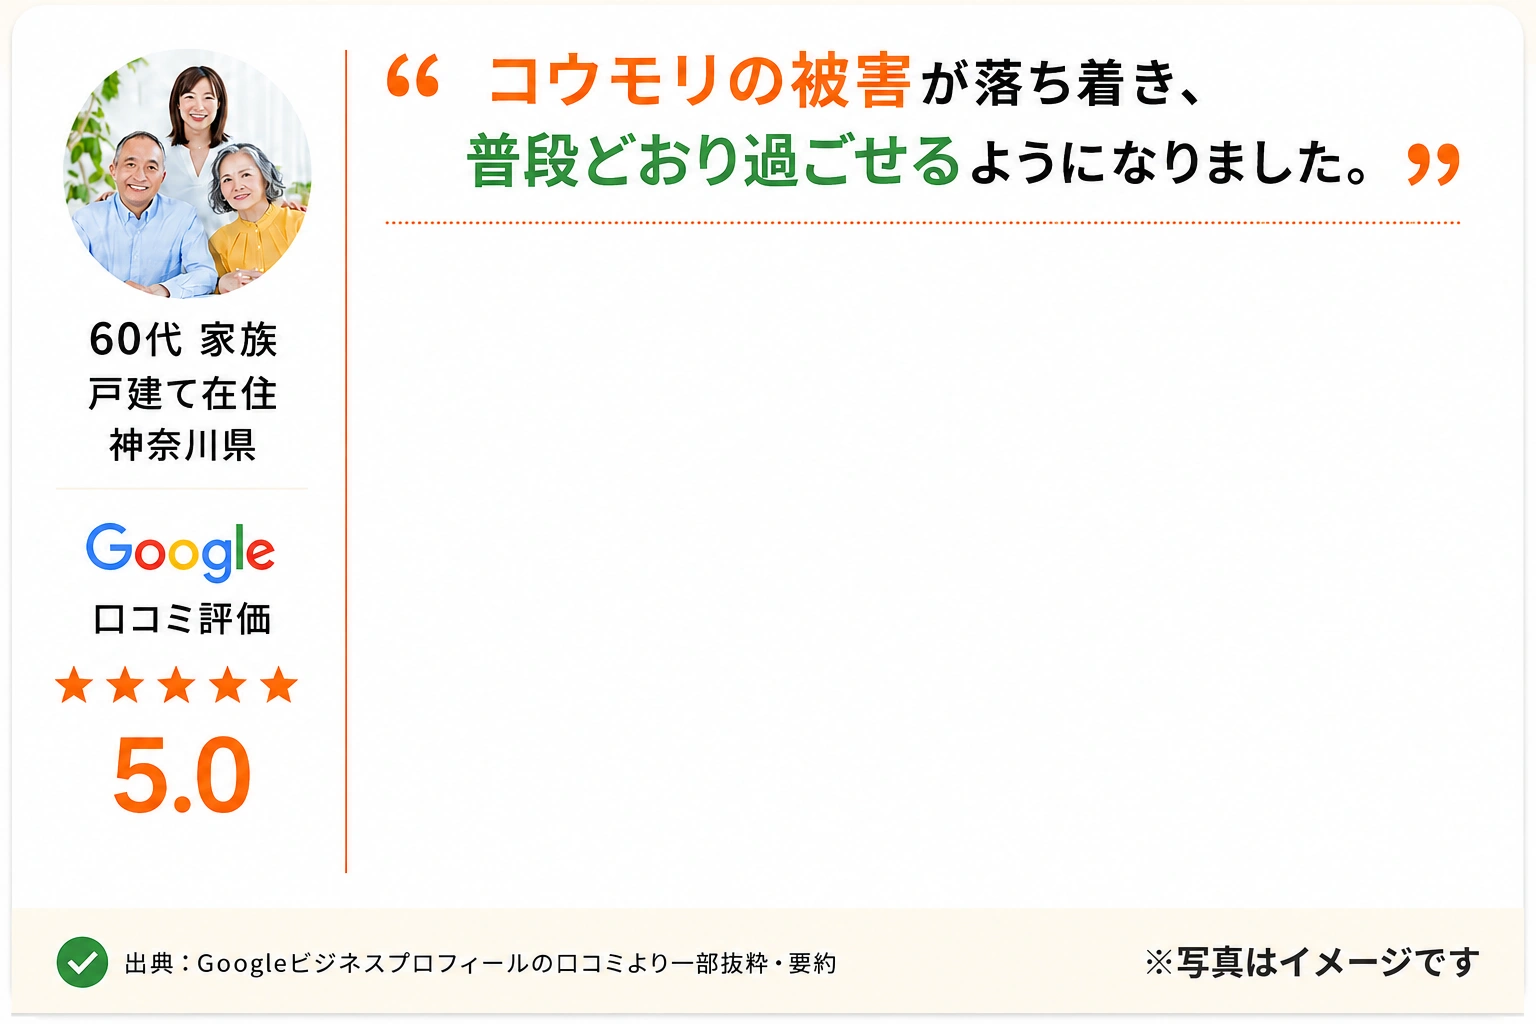
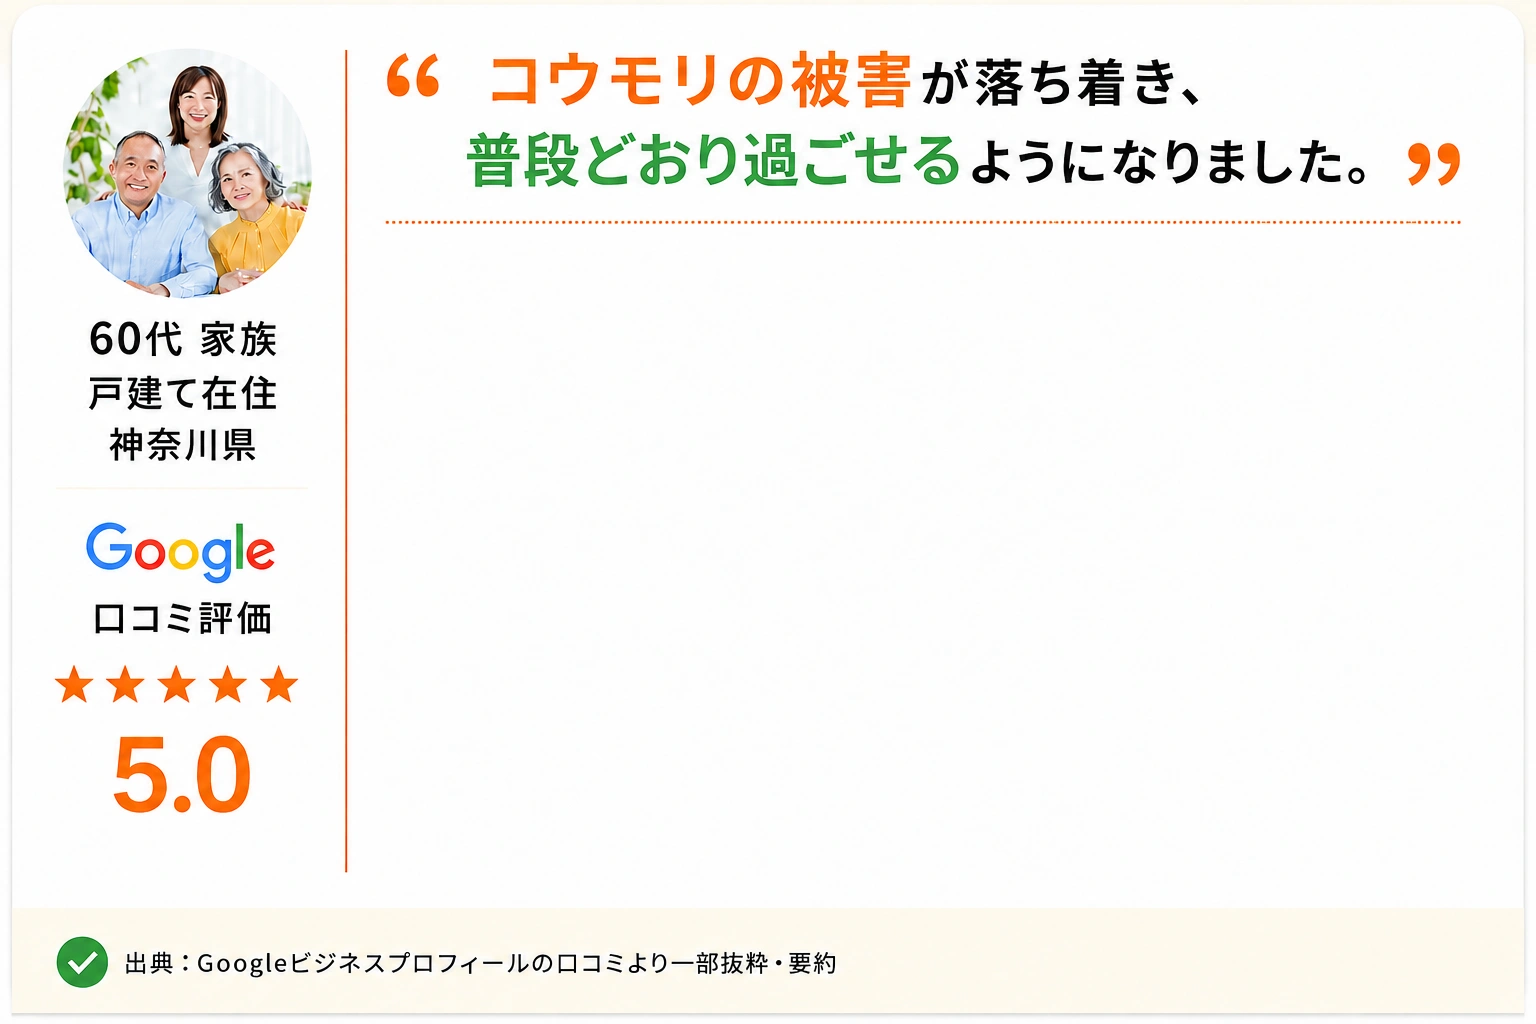
Refresh G hero copy and remove remaining photo image notes

diff --git a/g/index.html b/g/index.html
@@ -159,7 +159,7 @@ img:is([sizes=auto i],[sizes^="auto," i]){contain-intrinsic-size:3000px 1500px}
 <div class="hg-fv__stage">
 <figure class="hg-fv__photo" aria-hidden="true"><img fetchpriority="high" src="assets/refinement-20261129/hero.webp" alt="害獣対策スタッフのイメージ" class="hg-fv__photo-img" width="1536" height="1024"></figure>
 <div class="hg-fv__copy">
-<h1 class="hg-fv__heading"><span class="hg-fv__heading-line1">屋根裏・床下<span class="hg-fv__heading-no">の</span><br class="u_sp">ネズミなど</span><span class="hg-fv__heading-line2"><em>害獣駆除</em><span class="hg-fv__heading-taiou">の専門業者</span></span></h1>
+<h1 class="hg-fv__heading"><span class="hg-fv__heading-line1">住まいの害獣<span class="hg-fv__heading-no">に</span><br class="u_sp">お困りなら</span><span class="hg-fv__heading-line2"><em>害獣対策</em><span class="hg-fv__heading-taiou">の専門家へ</span></span></h1>
 <p class="hg-fv__lead">駆除後の安心も見据えて。<br><span class="hg-fv__lead-line"><mark class="hg-fv__lead-mark hg-fv__lead-mark--primary">侵入口封鎖・再発予防</mark><span class="hg-fv__lead-connector">まで</span><mark class="hg-fv__lead-mark hg-fv__lead-mark--end">一貫対応。</mark></span></p>
 <ul class="hg-fv__animals">
 <li><span class="hg-fv__animals-circle"><img src="../_mock/v3-assets/rat.jpg" alt="ネズミ" loading="eager" data-src="../_mock/v3-assets/rat.jpg" decoding="async" class="lazyloaded" data-eio-rwidth="258" data-eio-rheight="185"><noscript><img src="../_mock/v3-assets/rat.jpg" alt="ネズミ" loading="eager" data-eio="l"></noscript></span><span class="hg-fv__animals-name">ネズミ</span></li>
@@ -174,20 +174,20 @@ img:is([sizes=auto i],[sizes^="auto," i]){contain-intrinsic-size:3000px 1500px}
 <li class="hg-fv__point">
 <span class="hg-fv__point-num">1</span>
 <span class="hg-fv__point-icon" aria-hidden="true"><img data-srcset="assets/houseguard24.saki-x.jp/wp-content/uploads/hg24-srcset/point-icon-01-120.webp 120w, assets/houseguard24.saki-x.jp/wp-content/themes/house-guard/assets/img/renewal/point-icon-01.png.webp 240w" sizes="(max-width:767px) 56px, 50px" src="assets/houseguard24.saki-x.jp/wp-content/themes/house-guard/assets/img/renewal/point-icon-01.png.webp" alt="" width="46" height="46" data-src="assets/houseguard24.saki-x.jp/wp-content/themes/house-guard/assets/img/renewal/point-icon-01.png.webp" decoding="async" class="lazyloaded" data-eio-rwidth="240" data-eio-rheight="233" srcset="assets/houseguard24.saki-x.jp/wp-content/uploads/hg24-srcset/point-icon-01-120.webp 120w, assets/houseguard24.saki-x.jp/wp-content/themes/house-guard/assets/img/renewal/point-icon-01.png.webp 240w"><noscript><img srcset="assets/houseguard24.saki-x.jp/wp-content/uploads/hg24-srcset/point-icon-01-120.webp 120w, assets/houseguard24.saki-x.jp/wp-content/themes/house-guard/assets/img/renewal/point-icon-01.png.webp 240w" sizes="(max-width:767px) 56px, 50px" src="assets/houseguard24.saki-x.jp/wp-content/themes/house-guard/assets/img/renewal/point-icon-01.png.webp" alt="" width="46" height="46" data-eio="l"></noscript></span>
-<p class="hg-fv__point-title"><em class="_lead">明瞭会計</em>で安心</p>
-<p class="hg-fv__point-txt">住まいの状況を確認し、<br>被害に合う対策をご案内します。</p>
+<p class="hg-fv__point-title"><em class="_lead">費用を先に</em>ご案内</p>
+<p class="hg-fv__point-txt">現地調査の結果をもとに、<br>必要な対策と料金をわかりやすくお伝えします。</p>
 </li>
 <li class="hg-fv__point">
 <span class="hg-fv__point-num">2</span>
 <span class="hg-fv__point-icon" aria-hidden="true"><img data-srcset="assets/houseguard24.saki-x.jp/wp-content/uploads/hg24-srcset/point-icon-02-120.webp 120w, assets/houseguard24.saki-x.jp/wp-content/themes/house-guard/assets/img/renewal/point-icon-02.png.webp 240w" sizes="(max-width:767px) 56px, 50px" src="assets/houseguard24.saki-x.jp/wp-content/themes/house-guard/assets/img/renewal/point-icon-02.png.webp" alt="" width="46" height="46" data-src="assets/houseguard24.saki-x.jp/wp-content/themes/house-guard/assets/img/renewal/point-icon-02.png.webp" decoding="async" class="lazyloaded" data-eio-rwidth="240" data-eio-rheight="254" srcset="assets/houseguard24.saki-x.jp/wp-content/uploads/hg24-srcset/point-icon-02-120.webp 120w, assets/houseguard24.saki-x.jp/wp-content/themes/house-guard/assets/img/renewal/point-icon-02.png.webp 240w"><noscript><img srcset="assets/houseguard24.saki-x.jp/wp-content/uploads/hg24-srcset/point-icon-02-120.webp 120w, assets/houseguard24.saki-x.jp/wp-content/themes/house-guard/assets/img/renewal/point-icon-02.png.webp 240w" sizes="(max-width:767px) 56px, 50px" src="assets/houseguard24.saki-x.jp/wp-content/themes/house-guard/assets/img/renewal/point-icon-02.png.webp" alt="" width="46" height="46" data-eio="l"></noscript></span>
-<p class="hg-fv__point-title">自社施工で<em>安心</em></p>
-<p class="hg-fv__point-txt">調査も工事も自社の担当者が<br>責任を持って取り組みます。</p>
+<p class="hg-fv__point-title"><em>自社スタッフ</em>が対応</p>
+<p class="hg-fv__point-txt">状況の確認から工事まで、<br>自社の担当者が責任を持って進めます。</p>
 </li>
 <li class="hg-fv__point">
 <span class="hg-fv__point-num">3</span>
 <span class="hg-fv__point-icon" aria-hidden="true"><img data-srcset="assets/houseguard24.saki-x.jp/wp-content/uploads/hg24-srcset/point-icon-03-120.webp 120w, assets/houseguard24.saki-x.jp/wp-content/themes/house-guard/assets/img/renewal/point-icon-03.png.webp 240w" sizes="(max-width:767px) 56px, 50px" src="assets/houseguard24.saki-x.jp/wp-content/themes/house-guard/assets/img/renewal/point-icon-03.png.webp" alt="" width="46" height="46" data-src="assets/houseguard24.saki-x.jp/wp-content/themes/house-guard/assets/img/renewal/point-icon-03.png.webp" decoding="async" class="lazyloaded" data-eio-rwidth="240" data-eio-rheight="193" srcset="assets/houseguard24.saki-x.jp/wp-content/uploads/hg24-srcset/point-icon-03-120.webp 120w, assets/houseguard24.saki-x.jp/wp-content/themes/house-guard/assets/img/renewal/point-icon-03.png.webp 240w"><noscript><img srcset="assets/houseguard24.saki-x.jp/wp-content/uploads/hg24-srcset/point-icon-03-120.webp 120w, assets/houseguard24.saki-x.jp/wp-content/themes/house-guard/assets/img/renewal/point-icon-03.png.webp 240w" sizes="(max-width:767px) 56px, 50px" src="assets/houseguard24.saki-x.jp/wp-content/themes/house-guard/assets/img/renewal/point-icon-03.png.webp" alt="" width="46" height="46" data-eio="l"></noscript></span>
-<p class="hg-fv__point-title">対策工事後は<em class="_mk">10年保証</em></p>
-<p class="hg-fv__point-txt">工事後も安心が続くよう、<br>再侵入に備える保証をお付けします。<small>※適用条件があります。</small></p>
+<p class="hg-fv__point-title">施工箇所に<em class="_mk">10年保証</em></p>
+<p class="hg-fv__point-txt">施工後の再侵入にも備え、<br>保証対象の箇所を長くサポートします。<small>※適用条件があります。</small></p>
 </li>
 </ul>
 
@@ -1171,13 +1171,13 @@ aria-label="1 / 7">
 <figure class="hg-voice__card">
 <picture class="hg-voice__pic">
 <source media="(max-width:767px)"
-width="1536" height="1850" data-srcset="assets/photo-refresh/voice-03_sp.png 820w, assets/photo-refresh/voice-03_sp.png 1536w" sizes="(max-width:767px) 95vw, 100vw" srcset="assets/photo-refresh/voice-03_sp.png 820w, assets/photo-refresh/voice-03_sp.png 1536w">
-<img data-srcset="assets/photo-refresh/voice-03.png 808w, assets/photo-refresh/voice-03.png 1536w" sizes="808px" class="hg-voice__img lazyloaded"
-src="assets/photo-refresh/voice-03.png"
+width="1536" height="1850" data-srcset="assets/photo-refresh/voice-03_sp.png?v=20261129-note-cleanup 820w, assets/photo-refresh/voice-03_sp.png?v=20261129-note-cleanup 1536w" sizes="(max-width:767px) 95vw, 100vw" srcset="assets/photo-refresh/voice-03_sp.png?v=20261129-note-cleanup 820w, assets/photo-refresh/voice-03_sp.png?v=20261129-note-cleanup 1536w">
+<img data-srcset="assets/photo-refresh/voice-03.png?v=20261129-note-cleanup 808w, assets/photo-refresh/voice-03.png?v=20261129-note-cleanup 1536w" sizes="808px" class="hg-voice__img lazyloaded"
+src="assets/photo-refresh/voice-03.png?v=20261129-note-cleanup"
 width="1536" height="1024" loading="lazy" decoding="async"
-alt="神奈川県の30代女性・戸建て在住のお客様の声。ネズミの侵入口調査と工事説明を評価し「ぜひ相談してください」とGoogle口コミで5.0評価" data-src="assets/photo-refresh/voice-03.png" data-eio-rwidth="1536" data-eio-rheight="1024" srcset="assets/photo-refresh/voice-03.png 808w, assets/photo-refresh/voice-03.png 1536w">
-</picture><noscript><img srcset="assets/photo-refresh/voice-03.png 808w, assets/photo-refresh/voice-03.png 1536w" sizes="808px" class="hg-voice__img"
-src="assets/photo-refresh/voice-03.png"
+alt="神奈川県の30代女性・戸建て在住のお客様の声。ネズミの侵入口調査と工事説明を評価し「ぜひ相談してください」とGoogle口コミで5.0評価" data-src="assets/photo-refresh/voice-03.png?v=20261129-note-cleanup" data-eio-rwidth="1536" data-eio-rheight="1024" srcset="assets/photo-refresh/voice-03.png?v=20261129-note-cleanup 808w, assets/photo-refresh/voice-03.png?v=20261129-note-cleanup 1536w">
+</picture><noscript><img srcset="assets/photo-refresh/voice-03.png?v=20261129-note-cleanup 808w, assets/photo-refresh/voice-03.png?v=20261129-note-cleanup 1536w" sizes="808px" class="hg-voice__img"
+src="assets/photo-refresh/voice-03.png?v=20261129-note-cleanup"
 width="1536" height="1024" loading="lazy" decoding="async"
 alt="神奈川県の30代女性・戸建て在住のお客様の声。ネズミの侵入口調査と工事説明を評価し「ぜひ相談してください」とGoogle口コミで5.0評価" data-eio="l"></noscript>
 <figcaption class="hg-voice__body" style="--l:31.11%;--r:8.53%;--t:25.68%">
@@ -1189,13 +1189,13 @@ aria-label="2 / 7">
 <figure class="hg-voice__card">
 <picture class="hg-voice__pic">
 <source media="(max-width:767px)"
-width="1536" height="1850" data-srcset="assets/houseguard24.saki-x.jp/wp-content/themes/house-guard/assets/img/voice/voice-04-kanagawa-family60_sp.webp" srcset="assets/houseguard24.saki-x.jp/wp-content/themes/house-guard/assets/img/voice/voice-04-kanagawa-family60_sp.webp">
+width="1536" height="1850" data-srcset="assets/houseguard24.saki-x.jp/wp-content/themes/house-guard/assets/img/voice/voice-04-kanagawa-family60_sp.webp?v=20261129-note-cleanup" srcset="assets/houseguard24.saki-x.jp/wp-content/themes/house-guard/assets/img/voice/voice-04-kanagawa-family60_sp.webp?v=20261129-note-cleanup">
 <img class="hg-voice__img lazyloaded"
-src="assets/houseguard24.saki-x.jp/wp-content/themes/house-guard/assets/img/voice/voice-04-kanagawa-family60.webp"
+src="assets/houseguard24.saki-x.jp/wp-content/themes/house-guard/assets/img/voice/voice-04-kanagawa-family60.webp?v=20261129-note-cleanup"
 width="1536" height="1024" loading="lazy" decoding="async"
-alt="神奈川県の60代ご家族・戸建て在住のお客様の声。コウモリ被害の駆除後「安心して暮らすことができています」とGoogle口コミで5.0評価" data-src="assets/houseguard24.saki-x.jp/wp-content/themes/house-guard/assets/img/voice/voice-04-kanagawa-family60.webp" data-eio-rwidth="1536" data-eio-rheight="1024">
+alt="神奈川県の60代ご家族・戸建て在住のお客様の声。コウモリ被害の駆除後「安心して暮らすことができています」とGoogle口コミで5.0評価" data-src="assets/houseguard24.saki-x.jp/wp-content/themes/house-guard/assets/img/voice/voice-04-kanagawa-family60.webp?v=20261129-note-cleanup" data-eio-rwidth="1536" data-eio-rheight="1024">
 </picture><noscript><img class="hg-voice__img"
-src="assets/houseguard24.saki-x.jp/wp-content/themes/house-guard/assets/img/voice/voice-04-kanagawa-family60.webp"
+src="assets/houseguard24.saki-x.jp/wp-content/themes/house-guard/assets/img/voice/voice-04-kanagawa-family60.webp?v=20261129-note-cleanup"
 width="1536" height="1024" loading="lazy" decoding="async"
 alt="神奈川県の60代ご家族・戸建て在住のお客様の声。コウモリ被害の駆除後「安心して暮らすことができています」とGoogle口コミで5.0評価" data-eio="l"></noscript>
 <figcaption class="hg-voice__body" style="--l:24.66%;--r:5.08%;--t:23.83%">
@@ -1207,13 +1207,13 @@ aria-label="3 / 7">
 <figure class="hg-voice__card">
 <picture class="hg-voice__pic">
 <source media="(max-width:767px)"
-width="1536" height="1850" data-srcset="assets/mamoriya/voice-05-tokyo-m40_sp.jpg" srcset="assets/mamoriya/voice-05-tokyo-m40_sp.jpg">
+width="1536" height="1850" data-srcset="assets/mamoriya/voice-05-tokyo-m40_sp.jpg?v=20261129-note-cleanup" srcset="assets/mamoriya/voice-05-tokyo-m40_sp.jpg?v=20261129-note-cleanup">
 <img class="hg-voice__img lazyloaded"
-src="assets/mamoriya/voice-05-tokyo-m40.jpg"
+src="assets/mamoriya/voice-05-tokyo-m40.jpg?v=20261129-note-cleanup"
 width="1536" height="1024" loading="lazy" decoding="async"
-alt="東京都の40代男性・戸建て在住のお客様の声。相見積もりの中で予算内の提案を評価し、ネズミ駆除を依頼してGoogle口コミで5.0評価" data-src="assets/mamoriya/voice-05-tokyo-m40.jpg" data-eio-rwidth="1536" data-eio-rheight="1024">
+alt="東京都の40代男性・戸建て在住のお客様の声。相見積もりの中で予算内の提案を評価し、ネズミ駆除を依頼してGoogle口コミで5.0評価" data-src="assets/mamoriya/voice-05-tokyo-m40.jpg?v=20261129-note-cleanup" data-eio-rwidth="1536" data-eio-rheight="1024">
 </picture><noscript><img class="hg-voice__img"
-src="assets/mamoriya/voice-05-tokyo-m40.jpg"
+src="assets/mamoriya/voice-05-tokyo-m40.jpg?v=20261129-note-cleanup"
 width="1536" height="1024" loading="lazy" decoding="async"
 alt="東京都の40代男性・戸建て在住のお客様の声。相見積もりの中で予算内の提案を評価し、ネズミ駆除を依頼してGoogle口コミで5.0評価" data-eio="l"></noscript>
 <figcaption class="hg-voice__body" style="--l:32.86%;--r:4.62%;--t:25.98%">
@@ -1226,13 +1226,13 @@ aria-label="4 / 7">
 <figure class="hg-voice__card">
 <picture class="hg-voice__pic">
 <source media="(max-width:767px)"
-width="1536" height="1850" data-srcset="assets/houseguard24.saki-x.jp/wp-content/themes/house-guard/assets/img/voice/voice-07-tokyo-f80_sp.webp" srcset="assets/houseguard24.saki-x.jp/wp-content/themes/house-guard/assets/img/voice/voice-07-tokyo-f80_sp.webp">
+width="1536" height="1850" data-srcset="assets/houseguard24.saki-x.jp/wp-content/themes/house-guard/assets/img/voice/voice-07-tokyo-f80_sp.webp?v=20261129-note-cleanup" srcset="assets/houseguard24.saki-x.jp/wp-content/themes/house-guard/assets/img/voice/voice-07-tokyo-f80_sp.webp?v=20261129-note-cleanup">
 <img class="hg-voice__img lazyloaded"
-src="assets/houseguard24.saki-x.jp/wp-content/themes/house-guard/assets/img/voice/voice-07-tokyo-f80.webp"
+src="assets/houseguard24.saki-x.jp/wp-content/themes/house-guard/assets/img/voice/voice-07-tokyo-f80.webp?v=20261129-note-cleanup"
 width="1536" height="1024" loading="lazy" decoding="async"
-alt="東京都の80代女性・戸建て在住のお客様の声。初めてのネズミ駆除依頼で「もっと早く頼めばよかった」とGoogle口コミで5.0評価" data-src="assets/houseguard24.saki-x.jp/wp-content/themes/house-guard/assets/img/voice/voice-07-tokyo-f80.webp" data-eio-rwidth="1536" data-eio-rheight="1024">
+alt="東京都の80代女性・戸建て在住のお客様の声。初めてのネズミ駆除依頼で「もっと早く頼めばよかった」とGoogle口コミで5.0評価" data-src="assets/houseguard24.saki-x.jp/wp-content/themes/house-guard/assets/img/voice/voice-07-tokyo-f80.webp?v=20261129-note-cleanup" data-eio-rwidth="1536" data-eio-rheight="1024">
 </picture><noscript><img class="hg-voice__img"
-src="assets/houseguard24.saki-x.jp/wp-content/themes/house-guard/assets/img/voice/voice-07-tokyo-f80.webp"
+src="assets/houseguard24.saki-x.jp/wp-content/themes/house-guard/assets/img/voice/voice-07-tokyo-f80.webp?v=20261129-note-cleanup"
 width="1536" height="1024" loading="lazy" decoding="async"
 alt="東京都の80代女性・戸建て在住のお客様の声。初めてのネズミ駆除依頼で「もっと早く頼めばよかった」とGoogle口コミで5.0評価" data-eio="l"></noscript>
 <figcaption class="hg-voice__body" style="--l:26.94%;--r:3.45%;--t:25.68%">
@@ -1244,13 +1244,13 @@ aria-label="5 / 7">
 <figure class="hg-voice__card">
 <picture class="hg-voice__pic">
 <source media="(max-width:767px)"
-width="1536" height="1850" data-srcset="assets/mamoriya/voice-08-chiba-m50_sp.jpg" srcset="assets/mamoriya/voice-08-chiba-m50_sp.jpg">
+width="1536" height="1850" data-srcset="assets/mamoriya/voice-08-chiba-m50_sp.jpg?v=20261129-note-cleanup" srcset="assets/mamoriya/voice-08-chiba-m50_sp.jpg?v=20261129-note-cleanup">
 <img class="hg-voice__img lazyloaded"
-src="assets/mamoriya/voice-08-chiba-m50.jpg"
+src="assets/mamoriya/voice-08-chiba-m50.jpg?v=20261129-note-cleanup"
 width="1536" height="1024" loading="lazy" decoding="async"
-alt="千葉県の50代男性・戸建て在住のお客様の声。深夜のネズミ被害に即対応し、施工箇所の10年保証も評価してGoogle口コミで5.0評価" data-src="assets/mamoriya/voice-08-chiba-m50.jpg" data-eio-rwidth="1536" data-eio-rheight="1024">
+alt="千葉県の50代男性・戸建て在住のお客様の声。深夜のネズミ被害に即対応し、施工箇所の10年保証も評価してGoogle口コミで5.0評価" data-src="assets/mamoriya/voice-08-chiba-m50.jpg?v=20261129-note-cleanup" data-eio-rwidth="1536" data-eio-rheight="1024">
 </picture><noscript><img class="hg-voice__img"
-src="assets/mamoriya/voice-08-chiba-m50.jpg"
+src="assets/mamoriya/voice-08-chiba-m50.jpg?v=20261129-note-cleanup"
 width="1536" height="1024" loading="lazy" decoding="async"
 alt="千葉県の50代男性・戸建て在住のお客様の声。深夜のネズミ被害に即対応し、施工箇所の10年保証も評価してGoogle口コミで5.0評価" data-eio="l"></noscript>
 <figcaption class="hg-voice__body" style="--l:27.46%;--r:8.66%;--t:23.05%">
@@ -1262,13 +1262,13 @@ aria-label="6 / 7">
 <figure class="hg-voice__card">
 <picture class="hg-voice__pic">
 <source media="(max-width:767px)"
-width="1536" height="1850" data-srcset="assets/mamoriya/voice-09-kanagawa-f50_sp.jpg" srcset="assets/mamoriya/voice-09-kanagawa-f50_sp.jpg">
+width="1536" height="1850" data-srcset="assets/mamoriya/voice-09-kanagawa-f50_sp.jpg?v=20261129-note-cleanup" srcset="assets/mamoriya/voice-09-kanagawa-f50_sp.jpg?v=20261129-note-cleanup">
 <img class="hg-voice__img lazyloaded"
-src="assets/mamoriya/voice-09-kanagawa-f50.jpg"
+src="assets/mamoriya/voice-09-kanagawa-f50.jpg?v=20261129-note-cleanup"
 width="1536" height="1024" loading="lazy" decoding="async"
-alt="神奈川県の50代女性・戸建て在住のお客様の声。他社施工後に再発したネズミ被害を侵入口の封鎖で解決しGoogle口コミで5.0評価" data-src="assets/mamoriya/voice-09-kanagawa-f50.jpg" data-eio-rwidth="1536" data-eio-rheight="1024">
+alt="神奈川県の50代女性・戸建て在住のお客様の声。他社施工後に再発したネズミ被害を侵入口の封鎖で解決しGoogle口コミで5.0評価" data-src="assets/mamoriya/voice-09-kanagawa-f50.jpg?v=20261129-note-cleanup" data-eio-rwidth="1536" data-eio-rheight="1024">
 </picture><noscript><img class="hg-voice__img"
-src="assets/mamoriya/voice-09-kanagawa-f50.jpg"
+src="assets/mamoriya/voice-09-kanagawa-f50.jpg?v=20261129-note-cleanup"
 width="1536" height="1024" loading="lazy" decoding="async"
 alt="神奈川県の50代女性・戸建て在住のお客様の声。他社施工後に再発したネズミ被害を侵入口の封鎖で解決しGoogle口コミで5.0評価" data-eio="l"></noscript>
 <figcaption class="hg-voice__body" style="--l:29.15%;--r:6.71%;--t:30.86%">
@@ -1280,13 +1280,13 @@ aria-label="7 / 7">
 <figure class="hg-voice__card">
 <picture class="hg-voice__pic">
 <source media="(max-width:767px)"
-width="1536" height="1850" data-srcset="assets/mamoriya/voice-10-saitama-f30_sp.jpg" srcset="assets/mamoriya/voice-10-saitama-f30_sp.jpg">
+width="1536" height="1850" data-srcset="assets/mamoriya/voice-10-saitama-f30_sp.jpg?v=20261129-note-cleanup" srcset="assets/mamoriya/voice-10-saitama-f30_sp.jpg?v=20261129-note-cleanup">
 <img class="hg-voice__img lazyloaded"
-src="assets/mamoriya/voice-10-saitama-f30.jpg"
+src="assets/mamoriya/voice-10-saitama-f30.jpg?v=20261129-note-cleanup"
 width="1536" height="1024" loading="lazy" decoding="async"
-alt="埼玉県の30代女性・戸建て在住のお客様の声。コウモリ被害の現地調査から施工まで丁寧で追加料金もなくGoogle口コミで5.0評価" data-src="assets/mamoriya/voice-10-saitama-f30.jpg" data-eio-rwidth="1536" data-eio-rheight="1024">
+alt="埼玉県の30代女性・戸建て在住のお客様の声。コウモリ被害の現地調査から施工まで丁寧で追加料金もなくGoogle口コミで5.0評価" data-src="assets/mamoriya/voice-10-saitama-f30.jpg?v=20261129-note-cleanup" data-eio-rwidth="1536" data-eio-rheight="1024">
 </picture><noscript><img class="hg-voice__img"
-src="assets/mamoriya/voice-10-saitama-f30.jpg"
+src="assets/mamoriya/voice-10-saitama-f30.jpg?v=20261129-note-cleanup"
 width="1536" height="1024" loading="lazy" decoding="async"
 alt="埼玉県の30代女性・戸建て在住のお客様の声。コウモリ被害の現地調査から施工まで丁寧で追加料金もなくGoogle口コミで5.0評価" data-eio="l"></noscript>
 <figcaption class="hg-voice__body" style="--l:27%;--r:3.84%;--t:24.71%">

diff --git a/g/photo-refresh.css b/g/photo-refresh.css
@@ -6,8 +6,8 @@ img[src="assets/photo-refresh/img_philosophy_01.png"]{aspect-ratio:941/1672;obje
 img[src="assets/photo-refresh/img_prevention.png"]{aspect-ratio:1086/1448;object-fit:contain;height:auto}
 img[src="assets/photo-refresh/img_exp_01.png"]{aspect-ratio:1055/1491;object-fit:contain;height:auto}
 img[src="assets/photo-refresh/img_reason_01.png"]{aspect-ratio:1494/789;object-fit:contain;height:auto}
-img[src="assets/photo-refresh/voice-03.png"]{aspect-ratio:1536/1024;object-fit:contain;height:auto}
-img[src="assets/photo-refresh/voice-03_sp.png"]{aspect-ratio:1536/1850;object-fit:contain;height:auto}
+img[src^="assets/photo-refresh/voice-03.png"]{aspect-ratio:1536/1024;object-fit:contain;height:auto}
+img[src^="assets/photo-refresh/voice-03_sp.png"]{aspect-ratio:1536/1850;object-fit:contain;height:auto}
 img[src="assets/photo-refresh/ex_01.png"]{aspect-ratio:941/1672;object-fit:contain;height:auto}
 
 /* Preserve source-banner geometry, including the original mobile crop of padded warranty banners. */
@@ -33,6 +33,6 @@ img[src*="photo-refresh/SP_img_hosho_banner"]{aspect-ratio:4.4!important;object-
  .g-case-illustration>img{top:38%;height:59%}
  .hg-fv__photo-img{mask-image:linear-gradient(to bottom,#000 80%,transparent 99%);-webkit-mask-image:linear-gradient(to bottom,#000 80%,transparent 99%)}
 }
-@media(max-width:767px){img[src="assets/photo-refresh/voice-03.png"]{aspect-ratio:1536/1850}}
+@media(max-width:767px){img[src^="assets/photo-refresh/voice-03.png"]{aspect-ratio:1536/1850}}
 
 @media(max-width:767px){.g-case-illustration[data-photo-section="case-07"]{aspect-ratio:682/444}}
